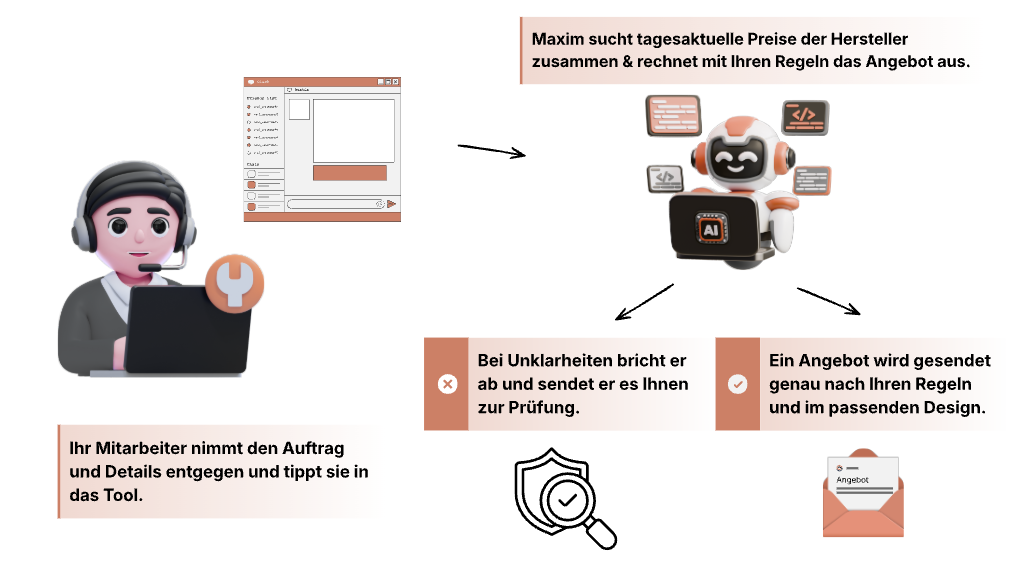
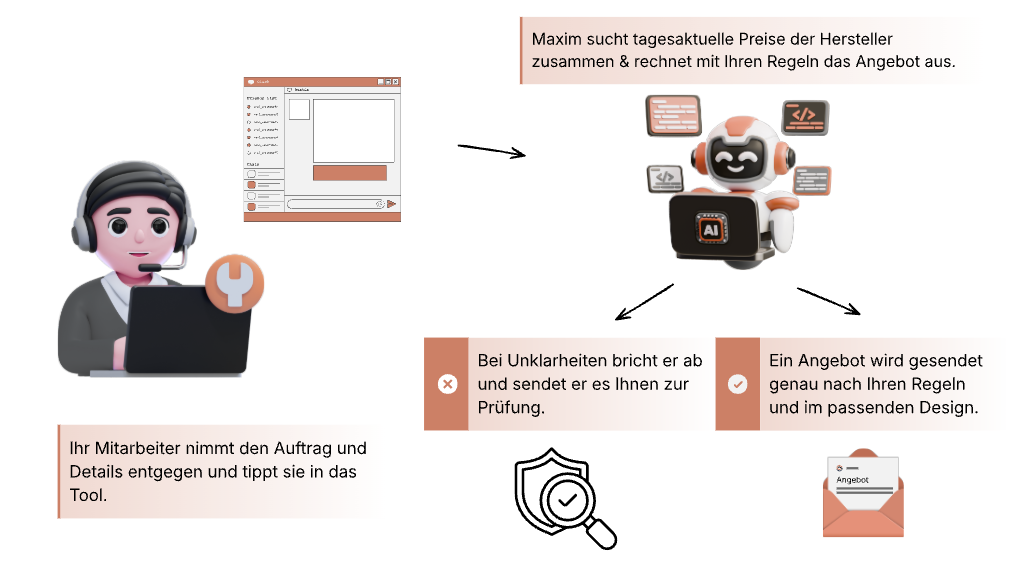
Update Kalkulations-Agent hero and stage visuals.
Replace stage graphics with transparent artwork (no image frames) and remove the hero Lottie robot for a cleaner centered layout.

diff --git a/website/src/components/ServiceModal.tsx b/website/src/components/ServiceModal.tsx
@@ -105,7 +105,6 @@ import { WorkflowAgentDeskVisual } from "./WorkflowAgentDeskVisual";
 import { BusinessModelWindTunnelVisual } from "./BusinessModelWindTunnelVisual";
 import { StrategyCommandRoomVisual } from "./StrategyCommandRoomVisual";
 import { TrainingAcademyVisual } from "./TrainingAcademyVisual";
-import { AgentLottie } from "./AgentLottie";
 import { GiftingCrmLogos, GiftingGlyph } from "./GiftingMarks";
 import { GiftingRevenueCalc } from "./GiftingRevenueCalc";
 import {
@@ -234,7 +233,7 @@ function ServiceHeroLayout({
   mark?: React.ReactNode;
   ctas?: React.ReactNode;
   proof?: React.ReactNode;
-  visual: React.ReactNode;
+  visual?: React.ReactNode;
   leadClassName?: string;
   titleClassName?: string;
   centerCopy?: boolean;
@@ -271,7 +270,7 @@ function ServiceHeroLayout({
             ) : null}
           </div>
           <div
-            className={`${styles.heroBody} ${centerCopy ? styles.heroBodyCenter : ""}`.trim()}
+            className={`${styles.heroBody} ${centerCopy ? styles.heroBodyCenter : ""} ${visual ? "" : styles.heroBodyNoVisual}`.trim()}
           >
             <div className={styles.heroCopy}>
               <p className={`${styles.lead} ${leadClassName ?? ""}`.trim()}>{lead}</p>
@@ -287,7 +286,7 @@ function ServiceHeroLayout({
               {ctas ? <div className={styles.heroCtas}>{ctas}</div> : null}
               {proof ? <div className={styles.heroProof}>{proof}</div> : null}
             </div>
-            <div className={styles.heroStage}>{visual}</div>
+            {visual ? <div className={styles.heroStage}>{visual}</div> : null}
           </div>
         </div>
       </section>
@@ -2343,16 +2342,6 @@ function MaximCalcContent() {
             </CtaButton>
             <ProofRow />
           </>
-        }
-        visual={
-          <div className={styles.maximHeroStage}>
-            <AgentLottie
-              src="/lottie/maxim-agent.json"
-              poster="/lottie/maxim-agent.png"
-              alt="Maxim, der Kalkulations-Agent"
-              className={styles.maximHeroLottie}
-            />
-          </div>
         }
       />
 

diff --git a/website/src/components/ServiceModal.module.css b/website/src/components/ServiceModal.module.css
@@ -349,6 +349,20 @@
     justify-content: center;
   }
 
+  .heroBodyNoVisual {
+    grid-template-columns: 1fr;
+  }
+
+  .heroBodyNoVisual.heroBodyCenter .heroCopy {
+    max-width: 42rem;
+    margin-inline: auto;
+    text-align: center;
+  }
+
+  .heroBodyNoVisual.heroBodyCenter .heroCtas {
+    justify-content: center;
+  }
+
   .heroStage {
     max-width: none;
     margin-inline: 0;
@@ -5081,30 +5095,17 @@
 .maximStageCard {
   display: grid;
   gap: 20px;
-  padding: clamp(18px, 3vw, 24px);
-  border-radius: var(--radius-card);
-  border: 1px solid rgba(25, 28, 33, 0.08);
-  background:
-    linear-gradient(180deg, rgba(255, 255, 255, 0.98), rgba(250, 249, 248, 0.98));
-  box-shadow:
-    0 1px 0 rgba(255, 255, 255, 0.9) inset,
-    0 16px 40px rgba(20, 18, 16, 0.06);
-  overflow: hidden;
-  transition:
-    transform 0.4s var(--ease-out-smooth),
-    box-shadow 0.4s var(--ease-out-smooth);
-}
-
-.maximStageCard:hover {
-  transform: translateY(-2px);
-  box-shadow:
-    0 1px 0 rgba(255, 255, 255, 0.9) inset,
-    0 22px 48px rgba(20, 18, 16, 0.09);
+  padding: clamp(18px, 3vw, 24px) 0;
+  background: transparent;
+  overflow: visible;
 }
 
 .maximStageVisual {
   order: 1;
   min-width: 0;
+  padding: 0;
+  border: none;
+  background: transparent;
 }
 
 .maximStageCopy {
@@ -5120,7 +5121,7 @@
     grid-template-columns: minmax(0, 1fr) minmax(0, 1fr);
     align-items: center;
     gap: 28px;
-    padding: 24px 28px;
+    padding: 12px 0;
   }
 
   .maximStageCardReversed .maximStageVisual {

diff --git a/website/src/components/MaximStageVisual.module.css b/website/src/components/MaximStageVisual.module.css
@@ -3,30 +3,6 @@
   width: 100%;
 }
 
-.frame {
-  display: block;
-  width: 100%;
-  padding: 3px;
-  border-radius: 14px;
-  background: linear-gradient(
-    145deg,
-    rgba(204, 128, 102, 0.38),
-    rgba(25, 28, 33, 0.08) 55%,
-    rgba(204, 128, 102, 0.18)
-  );
-  box-shadow:
-    0 20px 48px rgba(20, 18, 16, 0.12),
-    0 1px 0 rgba(255, 255, 255, 0.65) inset;
-}
-
-.frameInner {
-  overflow: hidden;
-  border-radius: 11px;
-  background:
-    linear-gradient(180deg, rgba(255, 255, 255, 0.55), transparent 28%),
-    #f6f5f3;
-}
-
 .image {
   display: block;
   width: 100%;
@@ -34,9 +10,6 @@
   aspect-ratio: 16 / 9;
   object-fit: contain;
   object-position: center;
-  transition: transform 0.55s var(--ease-out-smooth);
-}
-
-.frame:hover .image {
-  transform: scale(1.015);
+  border: none;
+  background: transparent;
 }

diff --git a/website/src/components/MaximStageVisual.tsx b/website/src/components/MaximStageVisual.tsx
@@ -39,16 +39,10 @@ export function MaximStageVisual({ stage }: MaximStageVisualProps) {
     />
   );
 
-  const framed = (
-    <div className={styles.frame}>
-      <div className={styles.frameInner}>{img}</div>
-    </div>
-  );
-
   return (
     <div className={styles.wrap}>
       {reduce ? (
-        framed
+        img
       ) : (
         <motion.div
           initial={{ opacity: 0, y: 12 }}
@@ -56,7 +50,7 @@ export function MaximStageVisual({ stage }: MaximStageVisualProps) {
           viewport={{ once: true, amount: 0.35 }}
           transition={{ duration: DURATION.normal, ease: EASE.outSmooth }}
         >
-          {framed}
+          {img}
         </motion.div>
       )}
     </div>
